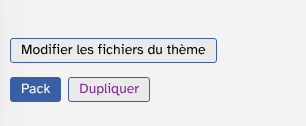
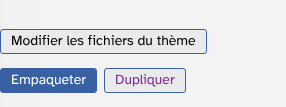
[cosmetic] User guide: follow the packing, message and exclusions fixes

Changed region(s): [[0.0, 0.2523, 0.7273, 0.5047], [0.0, 0.5888, 0.6713, 0.8692]]

diff --git a/docs/fr/utilisation.md b/docs/fr/utilisation.md
@@ -1,6 +1,6 @@
 # tinyPacker : guide d'utilisation
 
-tinyPacker ajoute un bouton « Pack » aux gestionnaires d'extensions et de thèmes. Un clic crée l'archive zip du module, prête à être installée ailleurs ou envoyée à quelqu'un.
+tinyPacker ajoute un bouton « Empaqueter » aux gestionnaires d'extensions et de thèmes. Un clic crée l'archive zip du module, prête à être installée ailleurs ou envoyée à quelqu'un.
 
 Le plugin n'a pas de page d'administration. Il est réservé aux super-administrateurs.
 
@@ -14,25 +14,23 @@ Le plugin n'a pas de page d'administration. Il est réservé aux super-administr
 ## Empaqueter un plugin
 
 1. Ouvrez « Plugins » dans le menu « Système ».
-2. Dans la liste des plugins activés, repérez la ligne du plugin voulu.
-3. Cliquez sur « Pack » à droite de la ligne.
+2. Dans la liste des plugins activés ou désactivés, repérez la ligne du plugin voulu.
+3. Cliquez sur « Empaqueter » à droite de la ligne.
 
-![Le bouton Pack sur la ligne d'un plugin](img/plugins-bouton-empaqueter.png)
+![Le bouton Empaqueter sur la ligne d'un plugin](img/plugins-bouton-empaqueter.png)
 
-Le message « La tâche a été exécutée. » confirme que les archives sont créées.
+Le message « Paquets créés dans le répertoire public du blog : » confirme que les archives sont créées, avec un lien vers chacune. Il indique aussi les archives remplacées et les archives d'anciennes versions supprimées.
 
 ![Le message de réussite](img/message-reussite.png)
-
-Le bouton n'existe que pour les plugins activés. Pour empaqueter un plugin désactivé, activez-le d'abord.
 
 ## Empaqueter un thème
 
 1. Ouvrez « Thèmes du blog » dans le menu « Blog ».
-2. Sur la fiche du thème voulu, cliquez sur « Pack ».
+2. Sur la fiche du thème voulu, cliquez sur « Empaqueter ».
 
-![Le bouton Pack sur la fiche d'un thème](img/themes-bouton-empaqueter.png)
+![Le bouton Empaqueter sur la fiche d'un thème](img/themes-bouton-empaqueter.png)
 
-Même message de confirmation. Le bouton n'existe pas pour les thèmes qui ne sont pas installés sur ce blog.
+Même message de confirmation.
 
 ## Récupérer l'archive
 
@@ -43,14 +41,14 @@ Chaque clic crée deux fichiers dans le dossier `packages` du répertoire public
 
 Par exemple : `plugin-blogroll-2.1.zip`.
 
-Récupérez-les avec votre client FTP, ou depuis le navigateur à l'adresse `https://votre-blog/public/packages/plugin-blogroll.zip`.
+Téléchargez-les avec les liens du message de confirmation, avec votre client FTP, ou depuis le navigateur à l'adresse `https://votre-blog/public/packages/plugin-blogroll.zip`.
 
-À chaque nouveau clic, les archives de même nom sont remplacées.
+À chaque nouveau clic, les archives de même nom sont remplacées, et les archives des anciennes versions du module sont supprimées.
 
 ## Bon à savoir
 
-* Le dossier `packages` est créé automatiquement. S'il n'est pas accessible en écriture, le message « Le répertoire de destination n'est pas accessible en écriture. » s'affiche.
-* Ne sont pas inclus dans l'archive : les éléments dont le nom commence par `.git`, `.hg` ou `.svn` (dont `.github` et `.gitignore`), `CVS`, `__MACOSX`, `.directory`, `.DS_Store`, `Thumbs.db`, et les dossiers `_disabled`. Les autres fichiers cachés, comme `.htaccess`, sont inclus.
+* Le dossier `packages` est créé automatiquement. S'il n'est pas accessible en écriture, le message « Le répertoire de destination n'est pas accessible en écriture. » s'affiche. Si une archive ne peut pas être écrite, le message « Impossible d'écrire le paquet » donne son nom.
+* Ne sont pas inclus dans l'archive : tous les fichiers et dossiers cachés (dont le nom commence par un point : `.git`, `.github`, `.htaccess`, `.DS_Store`…), `CVS`, `__MACOSX`, `Thumbs.db` et les dossiers `_disabled`.
 * Tout le reste est inclus : documentation, captures d'écran, fichiers de test, etc.
 * Les archives du dossier `packages` sont publiques : n'y laissez pas un module privé.
 * Pour un travail plus complet (plusieurs modules, versions, dépôt), voir le plugin pacKman.
